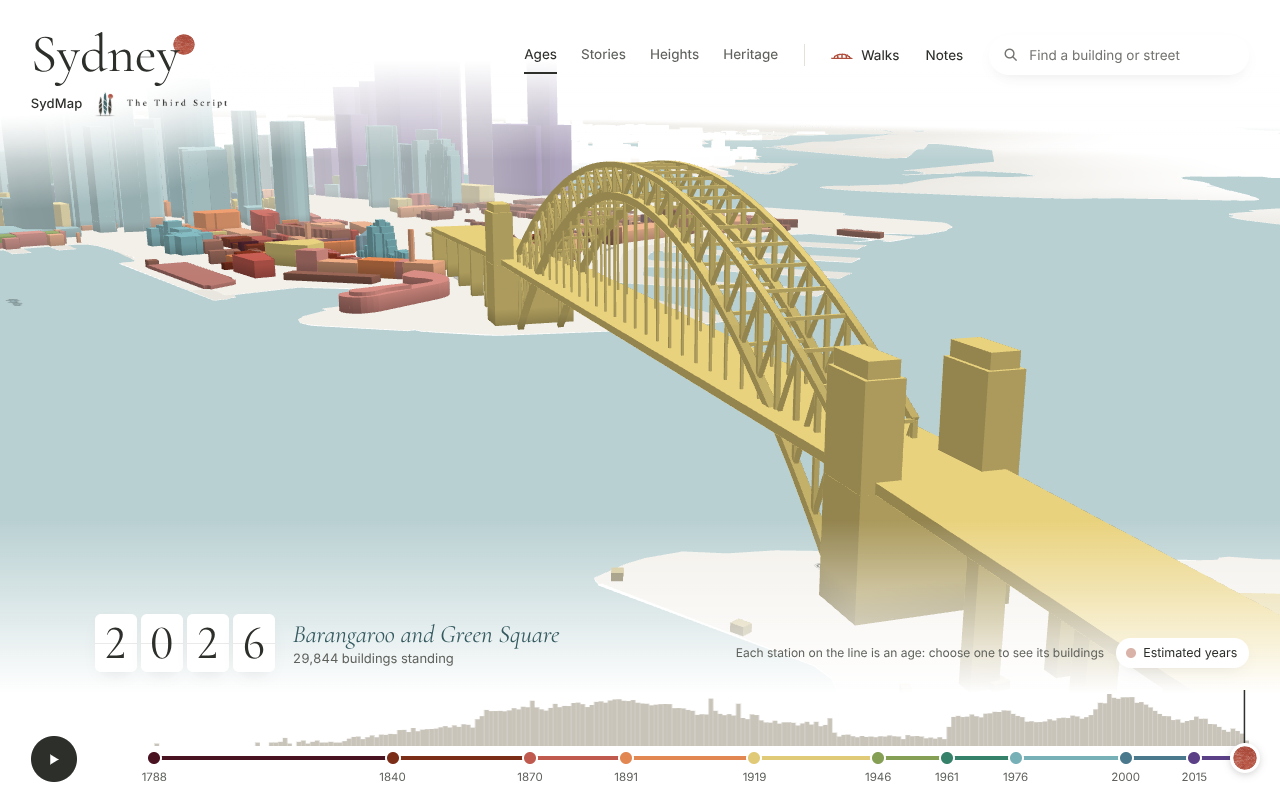
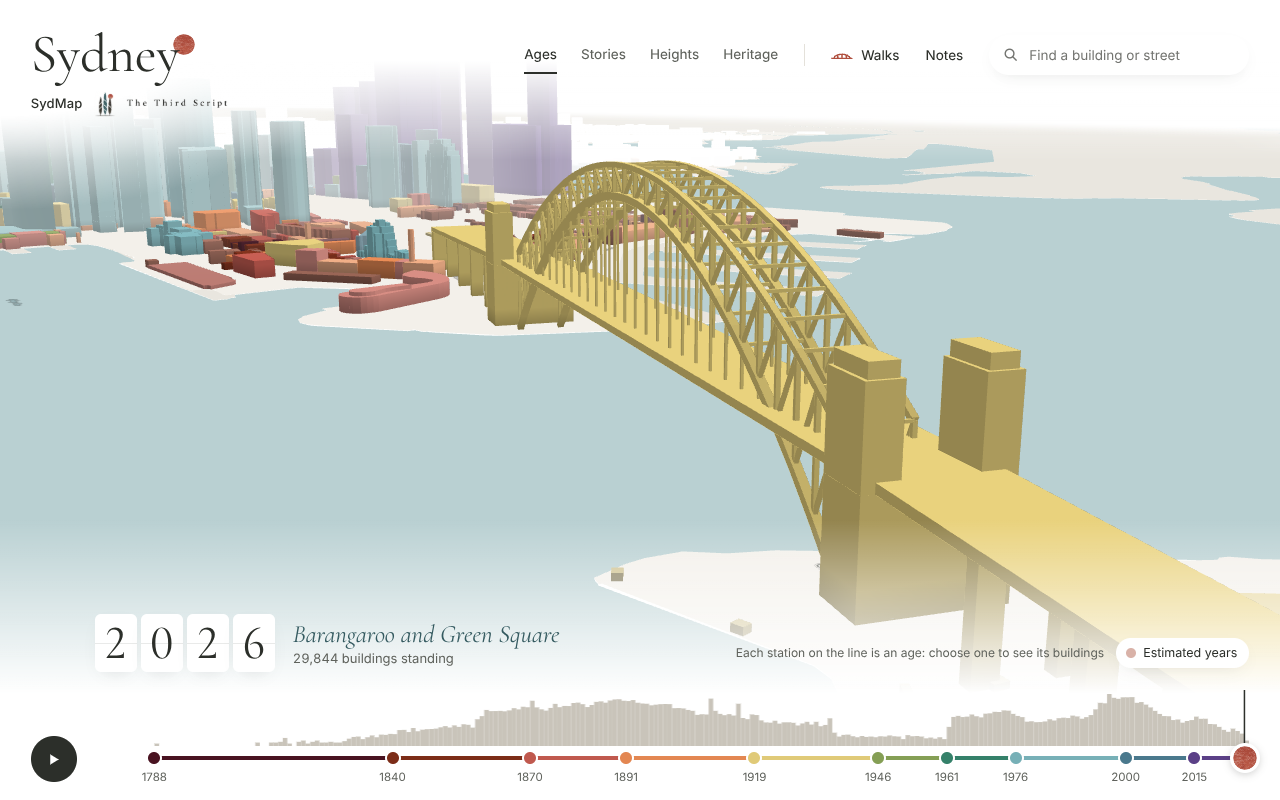
Fade land and water together, so the far shores never leave holes in the harbour
Land had faded from 260 m beyond the nearest building and water only from
1.7 km, so Balmain and the islands showed as white holes in teal water.
Both now fade together from 1.4 km to 2.4 km.

Claude-Session: https://claude.ai/code/session_0173dqPRDT7272Y1ZudC3e9y

Changed region(s): [[0.8125, 0.1562, 1.0, 0.25]]

diff --git a/web/app.js b/web/app.js
@@ -134,9 +134,9 @@ const EDGE_GLSL = `
     vec2 q = min(p - uEdgeMin, uEdgeMin + uEdgeSize - p);
     return max(smoothstep(uFadeRange.x, uFadeRange.y, metres), 1.0 - smoothstep(0.0, 1500.0, min(q.x, q.y)));
   }`;
-// Land fades from 260 m beyond the nearest building; the water only far out, so the harbour between the shores stays
-// clear and only the open water at the edge of the map goes into the wall.
-function groundMaterial(color, from = 260, to = 1150) {
+// Land and water fade together, from 1.4 km beyond the nearest building to 2.4 km: the harbour between the shores
+// stays clear, and the far shores and the open water go into the wall as one.
+function groundMaterial(color, from = 1400, to = 2400) {
   return new THREE.ShaderMaterial({
     uniforms: { uColor: { value: new THREE.Color(color) }, uWall: { value: new THREE.Color(SKY) }, uFadeRange: { value: new THREE.Vector2(from, to) }, ...EDGE },
     vertexShader: 'varying vec2 vXZ; void main() { vec4 w = modelMatrix * vec4(position, 1.0); vXZ = w.xz; gl_Position = projectionMatrix * viewMatrix * w; }',
@@ -145,7 +145,7 @@ function groundMaterial(color, from = 260, to = 1150) {
   });
 }
 const land = new THREE.Mesh(landGeo, groundMaterial(LAND));
-const water = new THREE.Mesh(waterGeo, groundMaterial(WATER, 1700, 2500));
+const water = new THREE.Mesh(waterGeo, groundMaterial(WATER));
 const context = new THREE.Mesh(contextGeo, groundMaterial(CONTEXT));
 land.position.y = -0.05;
 context.position.y = -0.1;

diff --git a/DESIGN.md b/DESIGN.md
@@ -239,9 +239,9 @@ never bold. The name's 0.86 line height is deliberate: it is one word set as a d
 Sheets (the dock, the find field, flaps, chips, the hover label) are paper with a soft offset shadow in ink, never a
 border: `0 6px 16px -8px` at 14% and `0 16px 36px -20px` at 22% for small sheets, `0 24px 48px -20px` at 28% for the
 dock and dialogs. The wall comes forward over the model at the top and bottom (veils) and in a soft patch behind the
-name. The ground fades into the wall with distance from the nearest building (a smoothed 50 m distance field, from
-260 m out to 1,150 m; `EDGE` and `edgeFade` in `app.js`), so its edge follows the councils' outline, never a box. Water
-fades only from 1,700 m, so the harbour between the shores stays clear. The camera stops at 22 km so the far shores stay out of view.
+name. The ground (land and water together) fades into the wall with distance from the nearest building (a smoothed
+50 m distance field, from 1.4 km out to 2.4 km; `EDGE` and `edgeFade` in `app.js`), and over the last 1.5 km before the
+mapped area ends, so its edge follows the councils' outline, never a box, and the harbour between the shores stays clear. The camera stops at 22 km so the far shores stay out of view.
 
 ## Shapes
 
